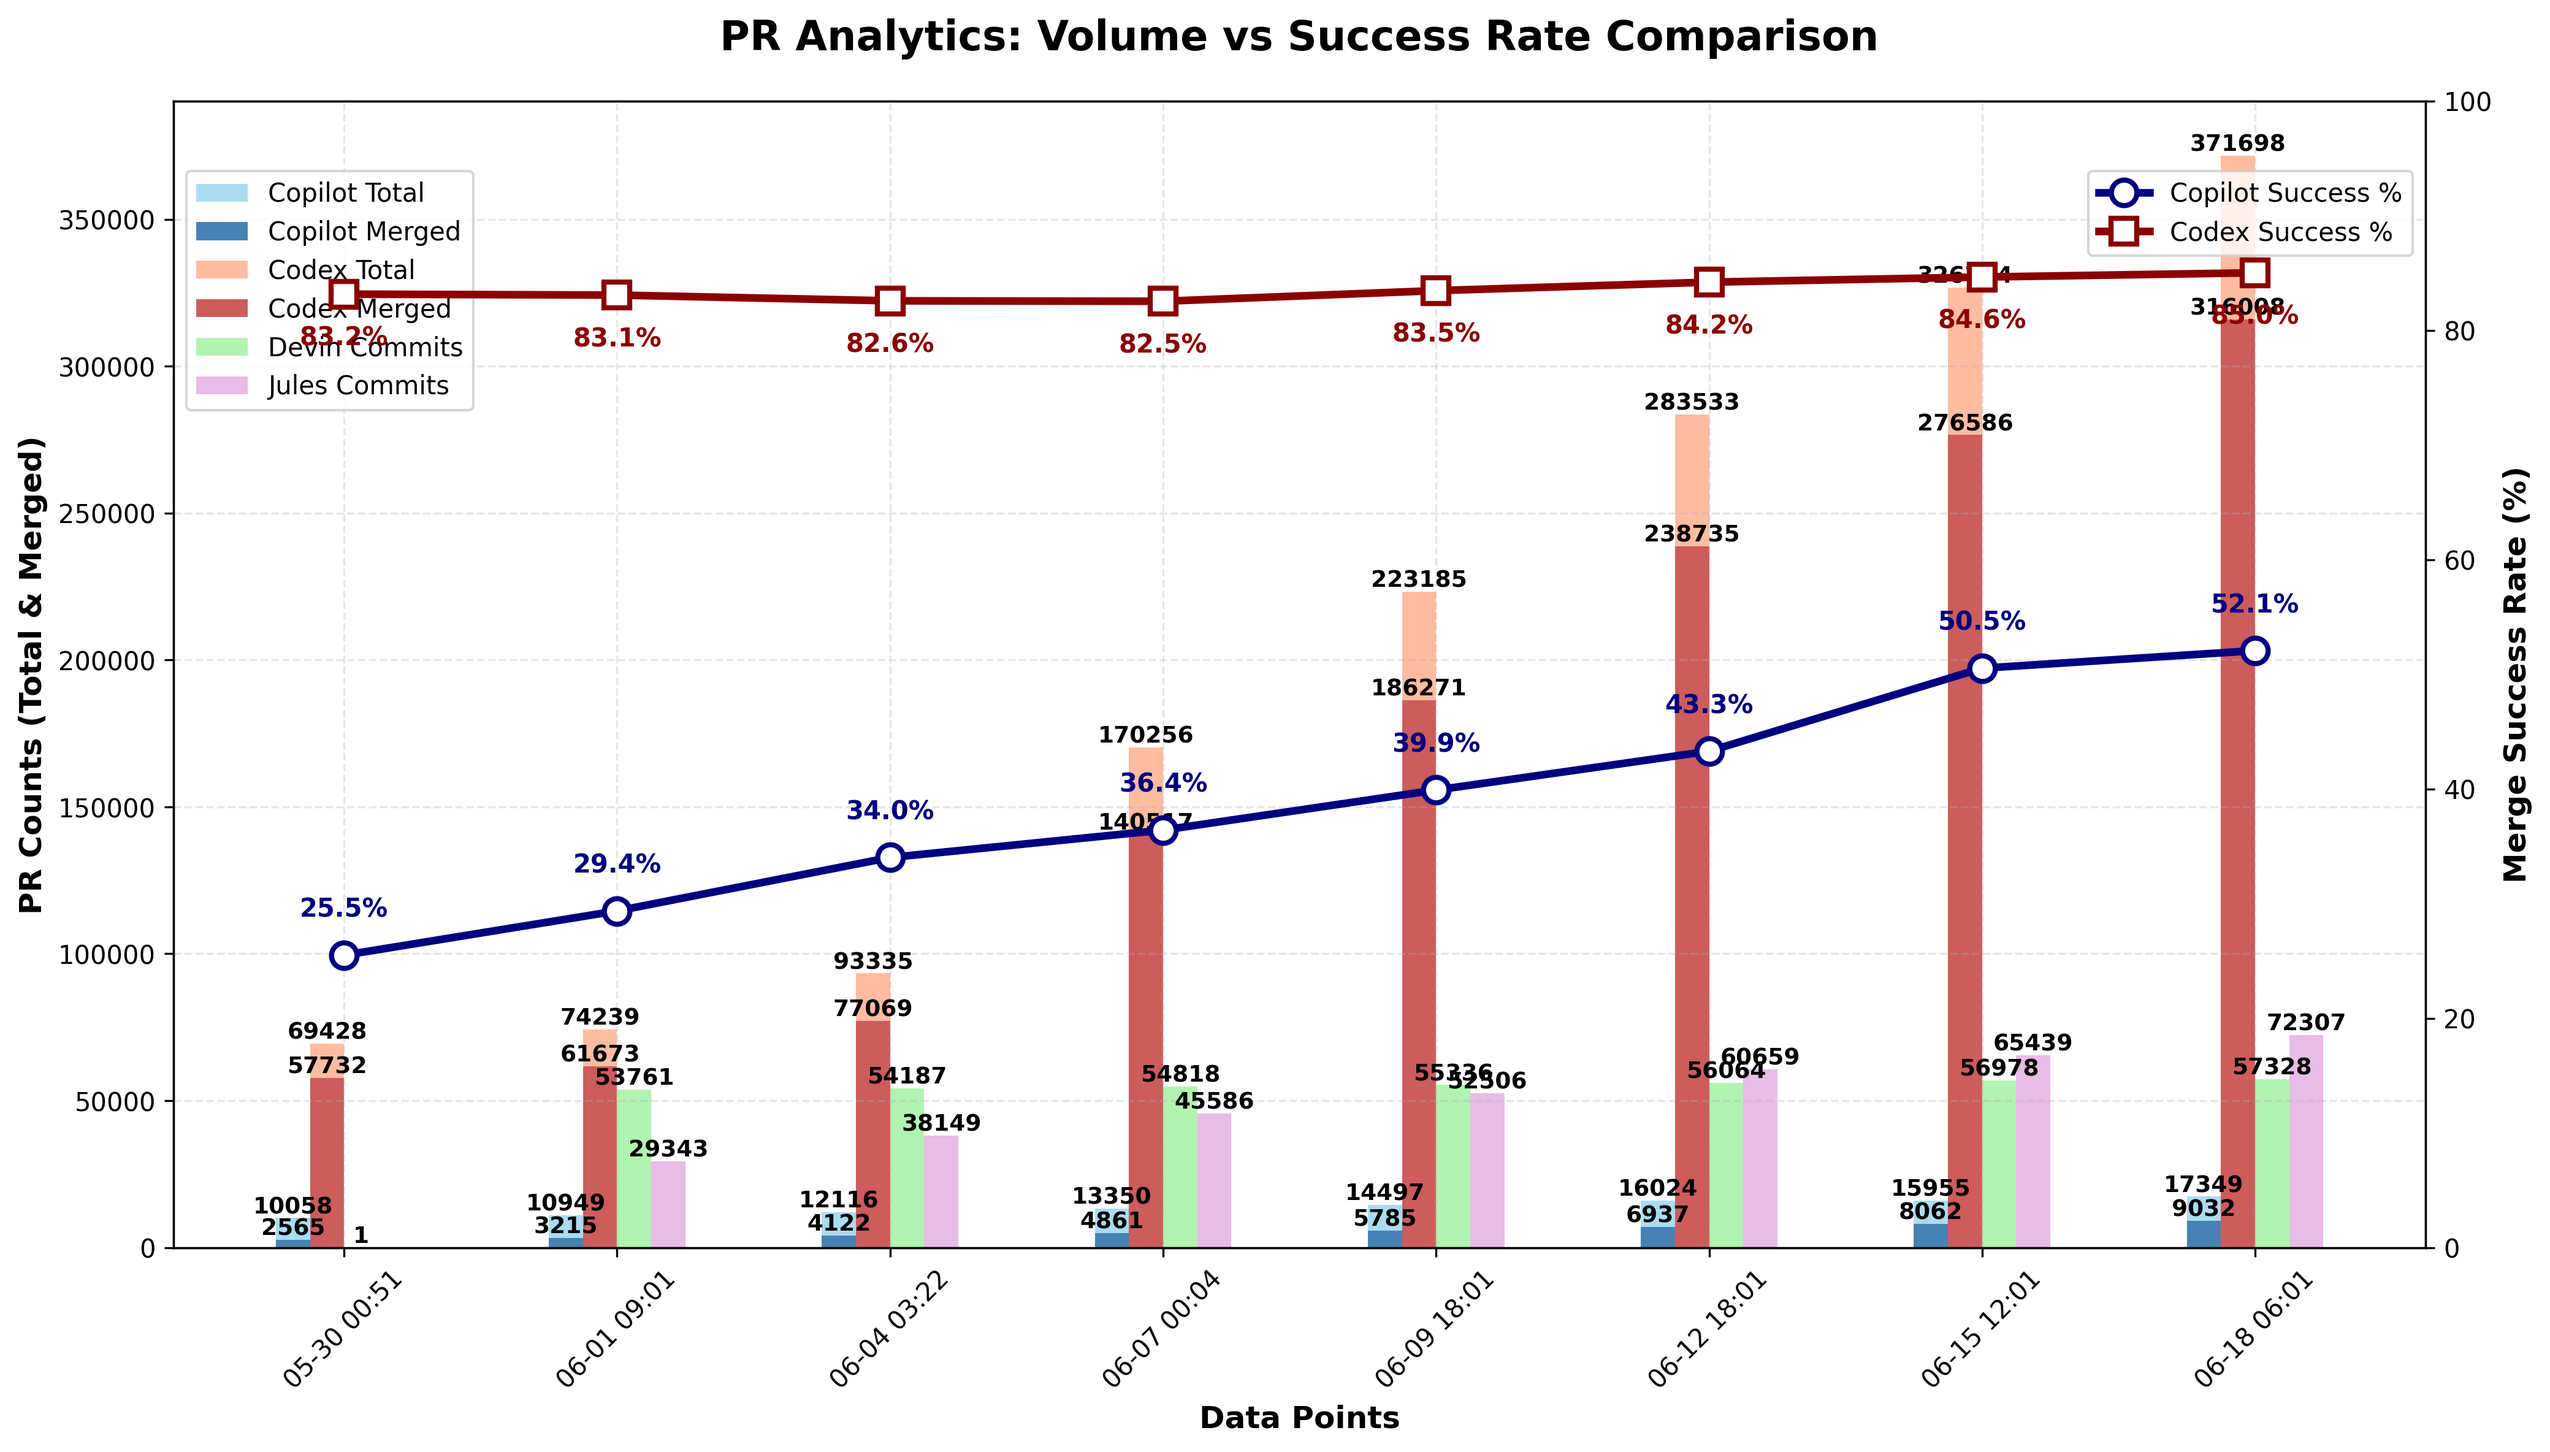
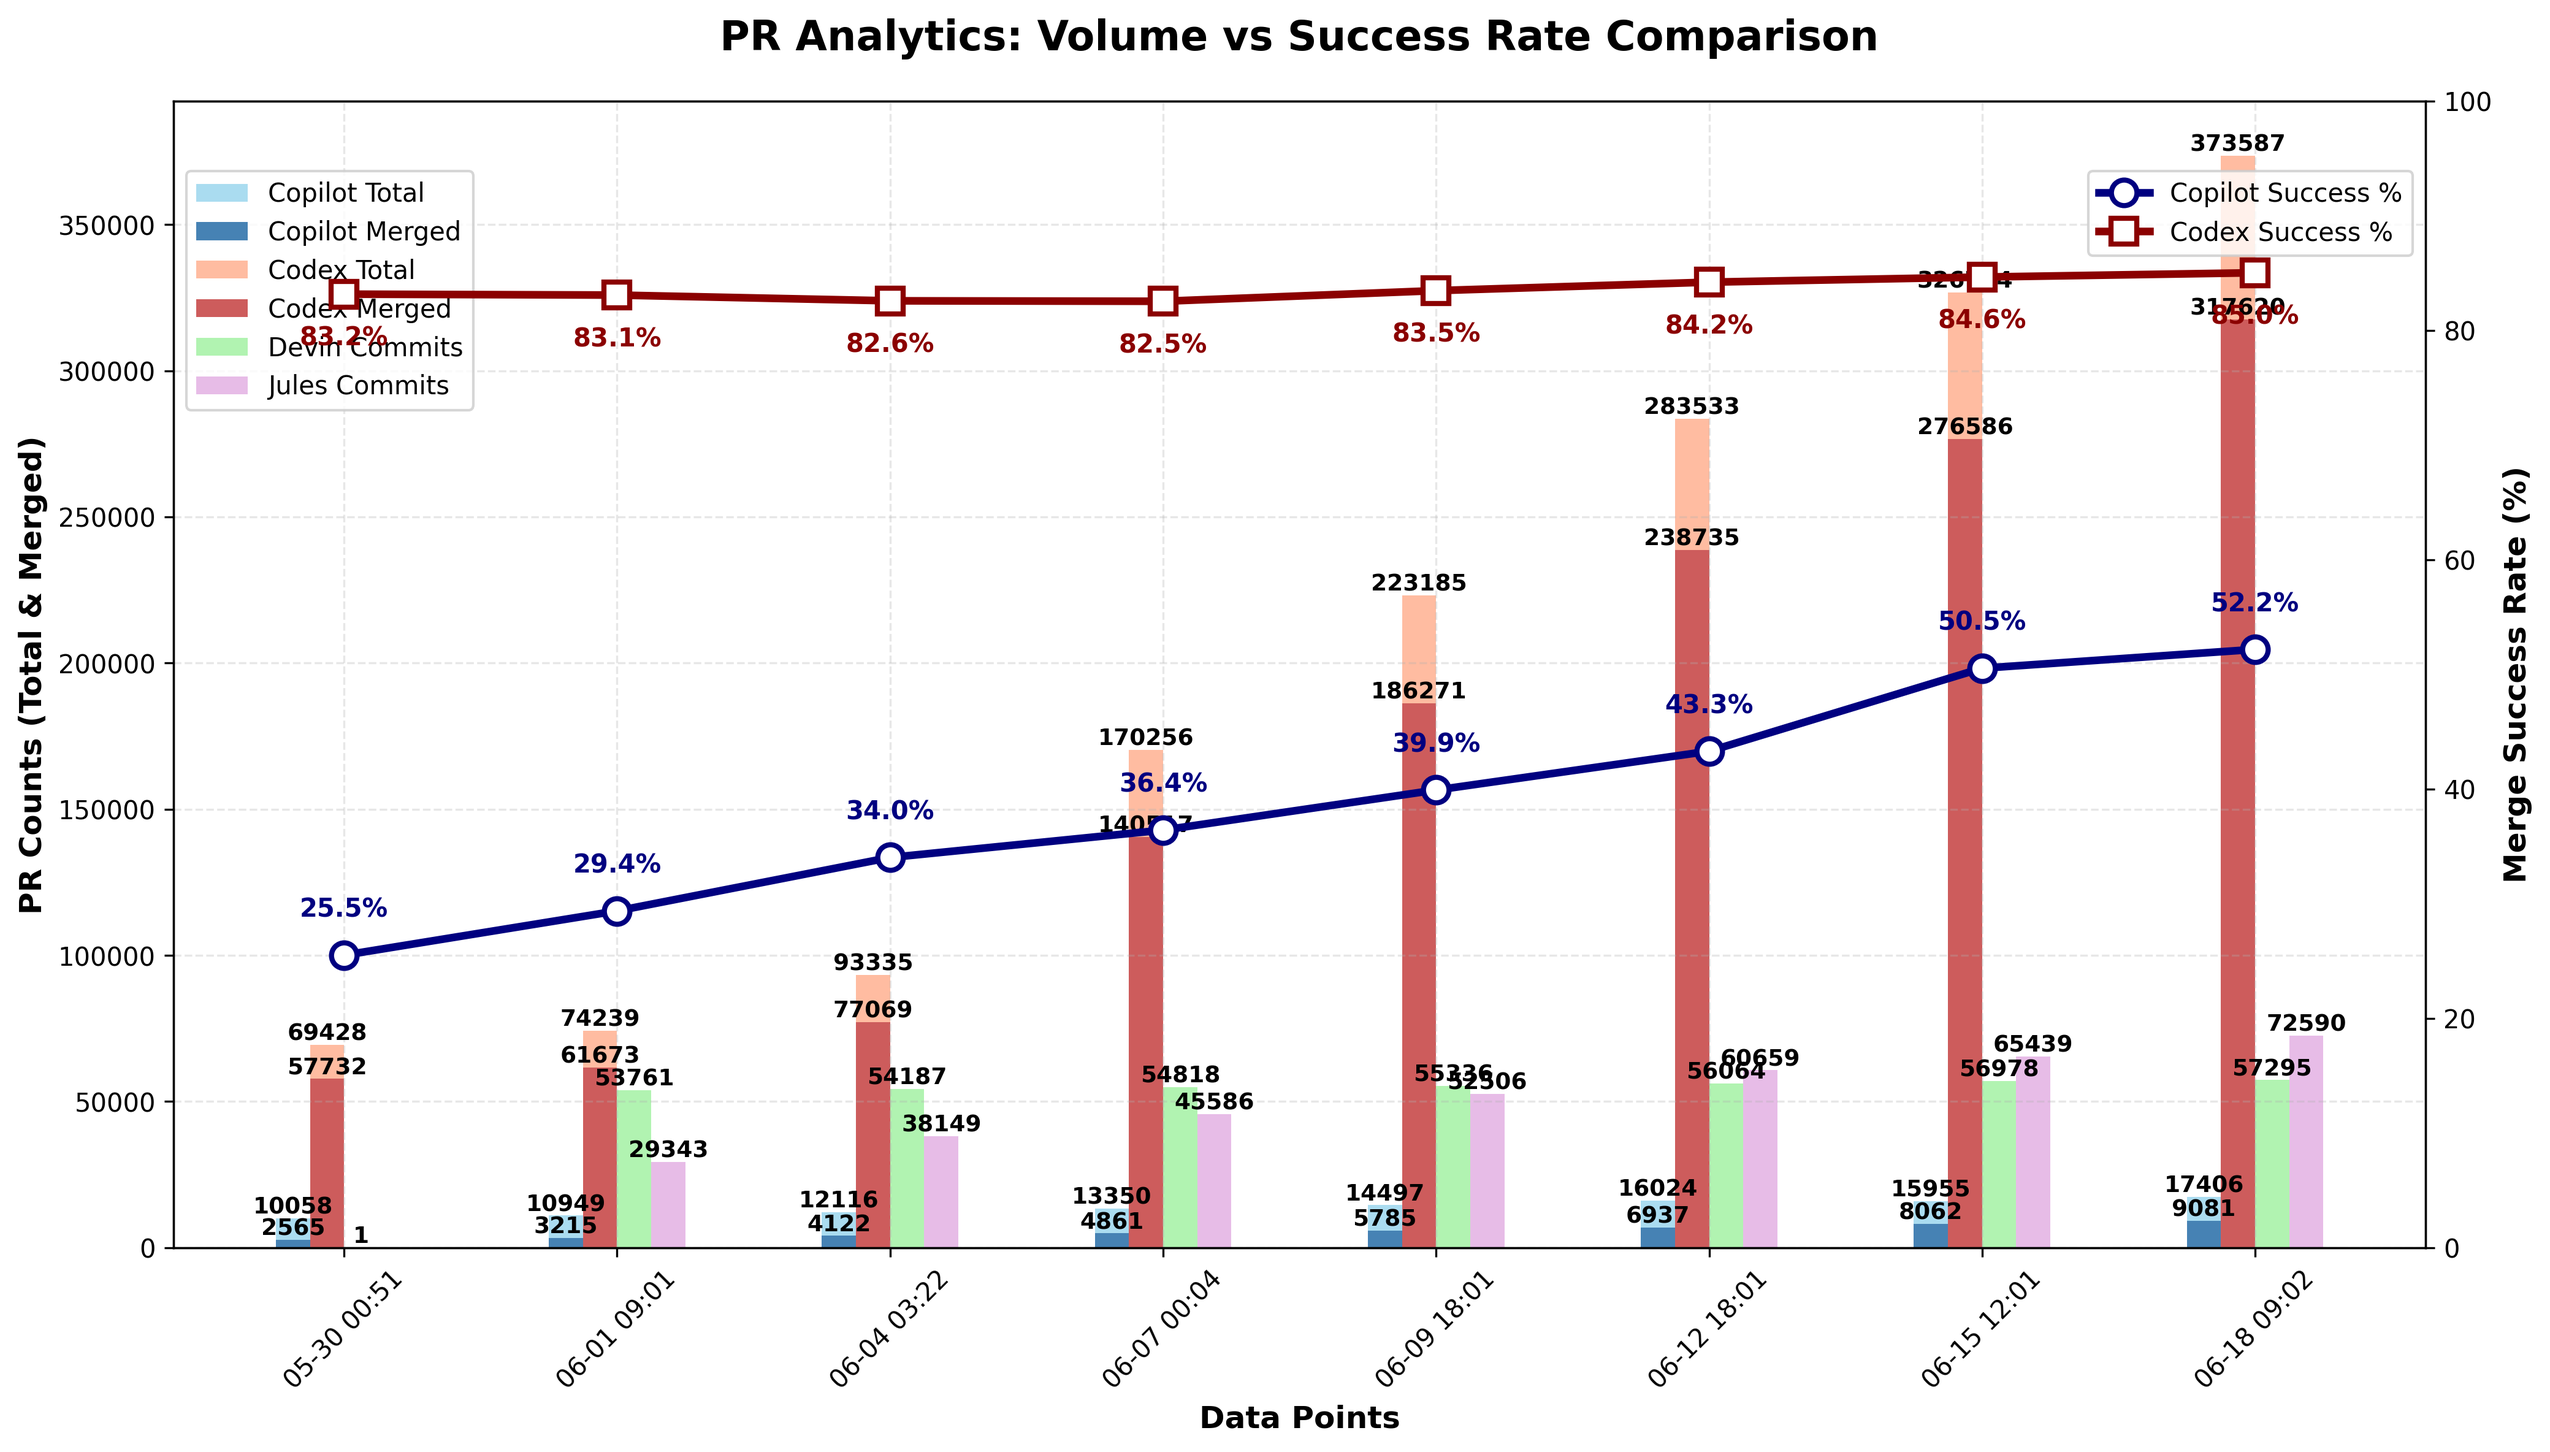
chore: update PR‑approval chart

diff --git a/docs/index.html b/docs/index.html
@@ -202,6 +202,7 @@
                         <td>N/A</td>
                         <td>N/A</td>
                         <td>N/A</td>
+                        <td>N/A</td>
                     </tr>
                     <tr>
                         <td>Codex</td>
@@ -362,27 +363,28 @@
                         <td>N/A</td>
                         <td>N/A</td>
                         <td>N/A</td>
+                        <td>N/A</td>
                     </tr>
                 <tr>
                         <td>Devin</td>
                         <td>N/A</td>
                         <td>N/A</td>
                         <td>N/A</td>
-                        <td>57,328</td>
+                        <td>57,295</td>
                     </tr>
                     <tr>
                         <td>Jules</td>
                         <td>N/A</td>
                         <td>N/A</td>
                         <td>N/A</td>
-                        <td>72,307</td>
+                        <td>72,590</td>
                     </tr>
                     </tbody>
             </table>
         </section>
 
         <footer>
-            <p>Last updated: <span id="last-updated">June 18, 2025 06:01 UTC</span></p>
+            <p>Last updated: <span id="last-updated">June 18, 2025 09:02 UTC</span></p>
             <p><a href="https://github.com/aavetis/ai-pr-watcher">View on GitHub</a></p>
         </footer>
     </div>

diff --git a/README.md b/README.md
@@ -19,7 +19,7 @@ Explore the GitHub search queries used:
 
 | Service | Total PRs | Merged PRs | Merge Rate | Total Commits |
 | ------- | --------- | ---------- | ---------- | ------------- |
-| Copilot | 17,349 | 9,032 | 52.06% | N/A           |
-| Codex   | 371,698 | 316,008 | 85.02% | N/A           |
-| Devin   | N/A       | N/A        | N/A        | 57,328 |
-| Jules   | N/A       | N/A        | N/A        | 72,307 |
+| Copilot | 17,406 | 9,081 | 52.17% | N/A           |
+| Codex   | 373,587 | 317,620 | 85.02% | N/A           |
+| Devin   | N/A       | N/A        | N/A        | 57,295 |
+| Jules   | N/A       | N/A        | N/A        | 72,590 |
